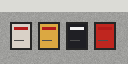
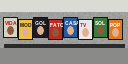
fix(rioclaro): unmirror banca sign and paint magazine covers

diff --git a/tools/blender/rc_textures.py b/tools/blender/rc_textures.py
@@ -220,14 +220,21 @@ def stainless():
 def banca():
     a = fill(128, 64, (0.62, 0.62, 0.61), 0.02)
     rect(a, 0, 0, 128, 12, (0.86, 0.86, 0.84))
-    covers = [(0.85, 0.82, 0.78), (0.86, 0.66, 0.26), (0.12, 0.12, 0.14), (0.75, 0.15, 0.12), (0.2, 0.35, 0.6)]
-    for i, x in enumerate(range(10, 120, 28)):
-        c = covers[i % len(covers)]
-        rect(a, x, 22, x + 22, 50, (0.15, 0.15, 0.15))
-        rect(a, x + 2, 24, x + 20, 48, c)
-        rect(a, x + 4, 27, x + 18, 30, (0.95, 0.95, 0.95) if c[0] < 0.5 else (0.7, 0.1, 0.1))
-        rect(a, x + 4, 40, x + 14, 41, (0.3, 0.3, 0.3))
     save("banca", a)
+    path = os.path.join(OUT, "banca.png")
+    covers = [("#d8d2c4", "#b01818", "VIDA"), ("#f0c040", "#202020", "MODA"), ("#1c1c22", "#f0f0f0", "GOL"), ("#c02a20", "#ffffff", "FATO"),
+              ("#2a5a9a", "#ffffff", "CASA"), ("#e8e8e8", "#c02020", "TV"), ("#3a7a3a", "#ffffff", "SOL"), ("#e07a20", "#ffffff", "POP")]
+    f = "/System/Library/Fonts/Supplemental/Arial Narrow Bold.ttf"
+    args = ["magick", path, "-font", f, "-pointsize", "6"]
+    for i, (bg, fg, txt) in enumerate(covers):
+        x = 4 + i * 15
+        y = 18 if i % 2 == 0 else 20
+        args += ["-fill", "#151515", "-draw", "rectangle %d,%d %d,%d" % (x - 1, y - 1, x + 13, y + 19)]
+        args += ["-fill", bg, "-draw", "rectangle %d,%d %d,%d" % (x, y, x + 12, y + 18)]
+        args += ["-fill", "#e0b090" if i % 3 else "#8a5a40", "-draw", "ellipse %d,%d 3,4 0,360" % (x + 6, y + 12)]
+        args += ["-fill", fg, "-annotate", "+%d+%d" % (x + 1, y + 7), txt]
+    args += ["-fill", "#2a2a2a", "-draw", "rectangle 4,44 124,47", "-fill", "#8a8a88", "-draw", "rectangle 0,48 128,64", "-depth", "8", "PNG24:" + path]
+    subprocess.run(args, check=True)
 
 
 def green_wall():

diff --git a/tools/blender/rc_lib.py b/tools/blender/rc_lib.py
@@ -140,7 +140,7 @@ class Kit:
             for i in range(4):
                 a, b = pts[i], pts[(i + 1) % 4]
                 L = math.hypot(b[0] - a[0], b[1] - a[1])
-                self.poly(mat, [(a[0], y0, a[1]), (b[0], y0, b[1]), (b[0], y1, b[1]), (a[0], y1, a[1])], [(0, 0), (1, 0), (1, 1), (0, 1)], col)
+                self.poly(mat, [(a[0], y0, a[1]), (b[0], y0, b[1]), (b[0], y1, b[1]), (a[0], y1, a[1])], [(1, 0), (0, 0), (0, 1), (1, 1)], col)
         else:
             t = tile or (max(size[0], size[2]), size[1])
             self.prism(mat, pts, y0, y1, None, tile=t, col=col)
